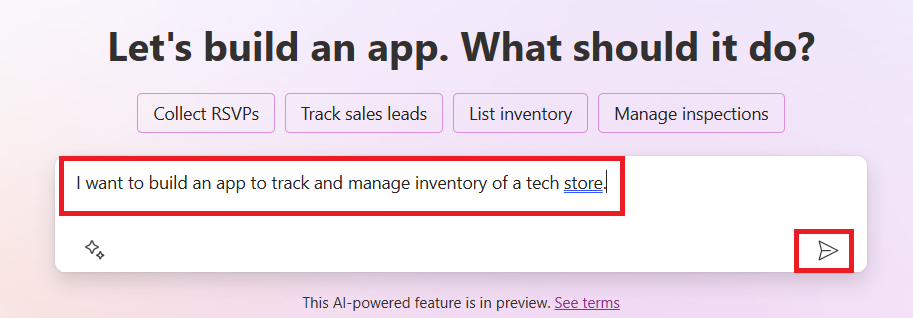
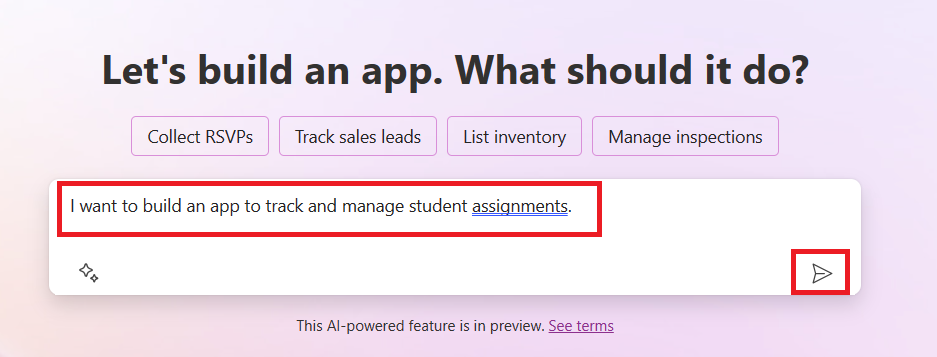
Made suggested updates

Changed region(s): [[0.0307, 0.4811, 0.9507, 0.9906], [0.092, 0.0849, 0.8894, 0.2547], [0.1227, 0.283, 0.8587, 0.4528]]

diff --git a/1-getting-started/lessons/10-building-low-code-ai-applications/README.md b/1-getting-started/lessons/10-building-low-code-ai-applications/README.md
@@ -2,7 +2,9 @@
 
 ## Introduction
 
-Building apps and solutions has become more easier for traditional developers and non-developers through the use of Low Code Development Platforms. Low Code Development Platforms enable you to build apps and solutions with little to no code. This is achieved by providing a visual development environment that enables you to drag and drop components to build apps and solutions. This enables you to build apps and solutions faster and with less resources. In this lesson, we dive deep into how to use Low Code and how to enhance low code development with AI.
+Building apps and solutions has become more easier for traditional developers and non-developers through the use of Low Code Development Platforms. Low Code Development Platforms enable you to build apps and solutions with little to no code. This is achieved by providing a visual development environment that enables you to drag and drop components to build apps and solutions. This enables you to build apps and solutions faster and with less resources. In this lesson, we dive deep into how to use Low Code and how to enhance low code development with AI using Power Platform.
+
+The Power Platform provides organizations with the opportunity to empower their teams to build their own solutions through an intuitive low-code or no-code environment. This environment helps simplify the process of building solutions. With Power Platform, solutions can be built in days or weeks instead of months or years. Power Platform consists of five key products: Power Apps, Power Automate, Power BI, Power Pages and Power Virtual Agents.
 
 This lesson covers:
 - Introduction to Generative AI in Power Platform
@@ -15,118 +17,128 @@ This lesson covers:
 By the end of this lesson, you will be able to:
 
 - Understand how Copilot works in Power Platform
-- Build an App using Copilot in PowerApps
+- Build a Student Assignment Tracker App for Edu4All, our fictitious education startup.
+- Build an Invoice Processing Flow that uses AI to extract information from invoices
 - Apply best practices when using the Create Text with GPT AI Model
+
+The tools and technologies that you will use in this lesson are:
+
+- PowerApps for the Student Assignment Tracker app, which provides a low-code development environment for building apps to track, manage and interact with data.
+- Dataverse for storing the data for the Student Assignment Tracker app where Dataverse will provide a low-code data platform for storing the apps data.
+- Power Automate for the Invoice Processing flow where you will have low-code development environment for building workflows to automate the Invoice Processing process.
+- AI Builder for the Invoice Processing AI Model where you will use prebuilt AI Models to process the Edu4All invoices.
 
 ## Generative AI in Power Platform
 
 Enhancing low-code development and application with generative AI is a key focus area for Power Platform. The goal is to enable everyone to build AI-powered apps, sites, dashboards and automate processes with AI, without requiring any data science expertise. This is achieved by integrating generative AI into the low-code development experience in Power Platform in the form of Copilot and AI Builder.
 
-### What is AI Copilot?
+How does this work? Copilot is an AI assistant that enables you to build Power Platform solutions by describing your requirements in a series of conversational steps using natural language. You can use Copilot driven functionalities as feature in your app screens to enable users to uncover insights through conversational interactions. AI Builder is a low-code AI capability available in Power Platform that enables you to use AI Models to help you to automate processes and predict outcomes. With AI Builder you can bring AI to your apps and flows that connect to your data in Dataverse or in various cloud data sources, such as SharePoint, OneDrive or Azure.
 
-AI Copilot enables you to build Power Platform solutions with underlying data through describing your requirements in a series of conversational steps using natural language. You can use AI Copilot driven functionalities as feature in your app screens to enable users to uncover insights through conversatonal interactions.
+Copilot is available in all of the Power Platform products: Power Apps, Power Automate, Power BI, Power Pages and Power Virtual Agents. AI Builder is available in Power Apps and Power Automate. In this lesson, we will focus on how to use Copilot and AI Builder in Power Apps and Power Automate to build a solution for Edu4All, our fictitious education startup.
 
-### PowerApps Copilot
+### Copilot in PowerApps
 
-The copilot AI assistant feature in PowerApps enables you to describe what kind of app you need and what information you want your app to track, collect, or show. Copilot then generates a responsive Canvas app based on your description. You can then customize the app to meet your needs. The AI Copilot also generates and suggests a Dataverse Table with the fields you need to store the data you want to track and some sample data. You can then customize the table to meet your needs using the AI Copilot assistant feature through conversational steps. This feature is readily available from the PowerApps home screen.
+As part of the Power Platform, PowerApps provides a low-code development environment for building apps to track, manage and interact with data. It is a suite of app development services with a scalable data platform and the ability to connect to cloud services and on-premises data. PowerApps allows you to build apps that run on browsers, tablets, and phones, and can be shared with co-workers. PowerApps eases users into app development with a simple interface, so that every business user or pro developer can build custom apps. The app development experience is also enhanced with Generative AI through Copilot.
 
-## Build Apps and Flows with Generative AI
+The copilot AI assistant feature in PowerApps enables you to describe what kind of app you need and what information you want your app to track, collect, or show. Copilot then generates a responsive Canvas app based on your description. You can then customize the app to meet your needs. The AI Copilot also generates and suggests a Dataverse Table with the fields you need to store the data you want to track and some sample data. We will look at what Dataverse is and how you can use it in PowerApps on this lesson later. You can then customize the table to meet your needs using the AI Copilot assistant feature through conversational steps. This feature is readily available from the PowerApps home screen.
 
-To build an app or a flow in PowerApps or Power Automate you would need to have a clear understanding of the requirements and the data that is required to build the app or flow. Make sure that you have a clear prompt to get the best results. For example, if you want to build an app to track the inventory of a store, you can use the following prompt: ***I want to build an app to track the inventory of a store***. This will help the AI Copilot to understand the requirements and generate the app accordingly.
+### Copilot in Power Automate
+
+As part of the Power Platform, Power Automate lets users create automated workflows between applications and services. It helpes automate repetitive business processes such as communication, data collection, and decision approvals. Its simple interface allows users with every technical competence (from beginners to seasoned developers) to automate work tasks. The workflow development experience is also enhanced with Generative AI through Copilot.
+
+The copilot AI assistant feature in Power Automate enables you to describe what kind of flow you need and what actions you want your flow to perform. Copilot then generates a flow based on your description. You can then customize the flow to meet your needs. The AI Copilot also generates and suggests the actions you need to perform the task you want to automate. We will look at what flows are and how you can use them in Power Automate on this lesson later. You can then customize the actions to meet your needs using the AI Copilot assistant feature through conversational steps. This feature is readily available from the Power Automate home screen.
+
+## Use Copilot to Build a Solution for Edu4All
+
+Edu4All is a fictitious education startup that provides online courses to students. The startup has grown rapidly and is now struggling to keep up with the demand for its courses. The startup has hired you as a Power Platform developer to help them build a low code solution to help them manage their student assignments and invoices. Their solution should be able to help them track and manage student assignments through an app and automate the invoice processing process through a workflow. You have been asked to use Generative AI to develop the solution.
 
 When you are getting started with using Copilot, you can use the [Power Platform Copilot Prompt Library](https://pnp.github.io/powerplatform-prompts/?WT.mc_id=academic-109639-somelezediko) to get started with the prompts. This library contains a list of prompts that you can use to build apps and flows with Copilot. You can also use the prompts in the library to get an idea of how to describe your requirements to Copilot.
 
-### Build and Update an App with Copilot in PowerApps
+### Build a Student Assignment Tracker App for Edu4All
 
-To build an app with Copilot in PowerApps, follow the steps below:
+The educators at Edu4All have been struggling to keep track of student assignments. They have been using a spreadsheet to track the assignments but this has become difficult to manage as the number of students has increased. They have asked you to build an app that will help them track and manage student assignments. The app should enable them to add new assignments, view assignments, update assignments and delete assignments. The app should also enable the educators and students to view the assignments that have been graded and those that have not been graded. 
+
+You will build the app using Copilot in PowerApps following the steps below:
 
 1. Navigate to the [PowerApps](https://make.powerapps.com) home screen.
 
-2. Use the text area on the home screen to describe the app you want to build. For example, ***I want to build an app to track and manage inventory of a tech store***. Click on the **Send** button to send the prompt to the AI Copilot.
+2. Use the text area on the home screen to describe the app you want to build. For example, ***I want to build an app to track and manage student assignments***. Click on the **Send** button to send the prompt to the AI Copilot.
 
     ![](images/copilot-chat-prompt-powerapps.png)
 
 3. The AI Copilot will suggest a Dataverse Table with the fields you need to store the data you want to track and some sample data. You can then customize the table to meet your needs using the AI Copilot assistant feature through conversational steps.
 
-    ![](images/copilot-table.png)
+> **Important**: Dataverse is the underlying data platform for Power Platform. It is a low-code data platform for storing the apps data. It is a fully managed service that securely stores data in the Microsoft Cloud and is provisioned within your Power Platform environment. It comes with built-in data governance capabilities, such as data classification, data lineage, fine-grained access control, and more. You can learn more about Dataverse [here](https://docs.microsoft.com/en-us/powerapps/maker/data-platform/data-platform-intro?WT.mc_id=academic-109639-somelezediko).
 
-4. Once you are done with the table, click on the **Create app** button to create the app.
+    ![](images/copilot-dataverse-table-powerapps.png)
 
-5. The AI Copilot will generate a responsive Canvas app based on your description. You can then customize the app to meet your needs (optional). You can also use the AI Copilot to add new screens to the app. For example, you can use the following prompt to add a new screen to the app: ***I want to add an email screen to send updates***. Click on the **Send** button to send the prompt to the AI Copilot.
+4. Educators want to send emails to the students who have submitted their assignments to keep them updated on the progress of their assignments. You can use Copilot to add a new field to the table to store the student email. For example, you can use the following prompt to add a new field to the table: ***I want to add a column to store student email***. Click on the **Send** button to send the prompt to the AI Copilot.
 
-    ![](images/copilot-app.png)
+    ![](images/copilot-new-column.png)
 
-6. Once you are done with the app, click on the **Save** button to save the app.
+5. The AI Copilot will generate a new field and you can then customize the field to meet your needs.
 
-7. You can then publish the app to make it available to the users.
+6. Once you are done with the table, click on the **Create app** button to create the app.
 
-### Author and Update a Dataverse Table with Copilot in PowerApps
+7. The AI Copilot will generate a responsive Canvas app based on your description. You can then customize the app to meet your needs.
 
-To author and update a Dataverse Table with Copilot in PowerApps, follow the steps below:
+8. For educators to send emails to students, you can use Copilot to add a new screen to the app. For example, you can use the following prompt to add a new screen to the app: ***I want to add a screen to send emails to students***. Click on the **Send** button to send the prompt to the AI Copilot.
+
+    ![](images/copilot-new-screen.png)
+
+9. The AI Copilot will generate a new screen and you can then customize the screen to meet your needs.
+
+10. Once you are done with the app, click on the **Save** button to save the app.
+
+11. To share the app with the educators, click on the **Share** button and then click on the **Share** button again. You can then share the app with the educators by entering their email addresses.
+
+> **Your homework**: The app you just built is a good start but can be improved. With the email feature, educators can only send emails to students manually by having to type their emails. Can you use Copilot to build an automation that will enable educators to send emails to students automatically when they submit their assignments? Your hint is with the right prompt you can use Copilot in Power Automate to build this.
+
+### Build an Invoices Information Table for Edu4All
+
+The Edu4All finance team has been struggling to keep track of invoices. They have been using a spreadsheet to track the invoices but this has become difficult to manage as the number of invoices has increased. They have asked you to build a table that will help them store, track and manage the information of the invoices they received. The table should be used to build an automation that will extract all the invoice information and store it in the table. The table should also enable the finance team to view the invoices that have been paid and those that have not been paid.
+
+The Power Platform has an underlying data platform called Dataverse that enables you to store the data for your apps and solutions. Dataverse provides a low-code data platform for storing the apps data. It is a fully managed service that securely stores data in the Microsoft Cloud and is provisioned within your Power Platform environment. It comes with built-in data governance capabilities, such as data classification, data lineage, fine-grained access control, and more. You can learn more about Dataverse [here](https://docs.microsoft.com/en-us/powerapps/maker/data-platform/data-platform-intro?WT.mc_id=academic-109639-somelezediko).
+
+Why should you use Dataverse for Edu4All? The standard and custom tables within Dataverse provide a secure and cloud-based storage option for your data. Tables let you store different types of data, similar to how you might use multiple worksheets in a single Excel workbook. You can use tables to store data that is specific to your organization or business need. Some of the benefits Edu4All will get from using Dataverse include but are not limited to: 
+
+- **Easy to manage**: Both the metadata and data are stored in the cloud, so you don't have to worry about the details of how they are stored or managed. You can focus on building your apps and solutions.
+
+- **Secure**: Dataverse provides a secure and cloud-based storage option for your data. You can control who has access to the data in your tables and how they can access it using role based security.
+
+- **Rich metadata**: Data types and relationships are used directly within PowerApps
+
+- **Logic and validation**: You can use business rules, calculated fields, and validation rules to enforce business logic and maintain data accuracy.
+
+Now that you know what Dataverse is and why you should use it, let's look at how you can use Copilot to create a table in Dataverse to meet the requirements of the Edu4All finance team.
+
+>**Note** : You will use this table in the next section to build an automation that will extract all the invoice information and store it in the table.
+
+To create a table in Dataverse using Copilot, follow the steps below:
 
 1. Navigate to the [PowerApps](https://make.powerapps.com) home screen.
 
 2. On the left navigation bar, select on **Tables** and then click on **Describe the new Table**.
 
-![](images/copilot-new-table.png)
+    ![](images/describe-new-table.png)
 
-3. On the right side of the screen, use the text area to describe the table you want to create. For example, ***I want to create a table to track and manage inventory for a tech store***. Click on the **Send** button to send the prompt to the AI Copilot.
+3. On the **Describe the new Table** screen, use the text area to describe the table you want to create. For example, ***I want to create a table to store invoice information***. Click on the **Send** button to send the prompt to the AI Copilot.
 
-    ![](images/copilot-new-table-prompt.png)
+    ![](images/copilot-chat-prompt-dataverse.png)
 
 4. The AI Copilot will suggest a Dataverse Table with the fields you need to store the data you want to track and some sample data. You can then customize the table to meet your needs using the AI Copilot assistant feature through conversational steps.
 
-5. To use AI Copilot to add a new field to the table, use the following prompt: ***I want to add a field to store supplier email.***. Click on the **Send** button to send the prompt to the AI Copilot.
+    ![](images/copilot-dataverse-table.png)
 
-    ![](images/copilot-new-column.png)
+5. The Edu4All finance team want to send an email to the supplier to update them with the current status of their invoice. You can use Copilot to add a new field to the table to store the supplier email. For example, you can use the following prompt to add a new field to the table: ***I want to add a column to store supplier email***. Click on the **Send** button to send the prompt to the AI Copilot.
 
 6. The AI Copilot will generate a new field and you can then customize the field to meet your needs.
 
 7. Once you are done with the table, click on the **Create** button to create the table.
 
-### Build and Update a Flow with Copilot in Power Automate
-
-To build a flow with Copilot in Power Automate, follow the steps below:
-
-1. Navigate to the [Power Automate](https://make.powerautomate.com) home screen.
-
-2. Use the text area on the home screen to describe the flow you want to build. For example, ***I want to receive updates when stock quantity drops to a certain number in Dataverse**. Click on the **Send** button to send the prompt to the AI Copilot.
-
-    ![](images/copilot-chat-prompt-powerautomate.png)
-
-3. The AI Copilot will suggest a flow with the actions you need to perform the task you want to automate. You click on the **Next** button to go through the steps.
-
-    ![](images/suggested-flow.png)
-
-4. Power Automate will prompt you to set up the connections required for the flow. Once you are done with the connections, click on the **Create Flow** button to create the flow.
-
-5. Update the **When a row is added, modified or deleted** trigger to use the table you created in the previous section.
-
-6. Update the **Get a row by ID** action to use the table you created in the previous section.
-
-7. Update the condition to use the dynamic content from the **Get a row by ID** action. Set the fields as shown below:
-
-    **Left**: `Quantity`,
-    **Condition**: `is less than`,
-    **Right**: `10`
-
-8. Update the **Send an email** action to use the dynamic content from the trigger. Set the fields as shown below:
-
-    **To**: `Email`,
-    **Subject**: `Quantity of Inventory Item Dropping`,
-    **Body**: `Hi team, the number of items in stock for the item: {Name} is dropping. Please check the inventory and update the stock.`
-
-9. Use copilot to add a new action to the flow. For example, you can use the following prompt to add a new action to the flow: ***I want to create a task in planner when the condition is true and send an email***. Click on the **Send** button to send the prompt to the AI Copilot.
-
-    ![](images/copilot-powerautomate.png)
-
-10. The AI Copilot will generate a new action and you can then customize the action to meet your needs.
-
-11. Once you are done with the flow, click on the **Save** button to save the flow.
-
 ## AI Models in Power Platform with AI Builder
 
-AI Builder is a low-code AI capability available in Power Platform that enables you to use AI Models to help you in automating processes and predicting outcomes. With AI Builder you can bring AI to your apps and flows that connect to your data in Dataverse or in various cloud data sources, such as SharePoint, OneDrive or Azure. 
+AI Builder is a low-code AI capability available in Power Platform that enables you to use AI Models to help you to automate processes and predict outcomes. With AI Builder you can bring AI to your apps and flows that connect to your data in Dataverse or in various cloud data sources, such as SharePoint, OneDrive or Azure. 
 
 ### Prebuilt AI Models vs Custom AI Models
 
@@ -143,17 +155,64 @@ Some of the Prebuilt AI Models available in Power Platform include:
 - **Form Processing**: This model extracts information from forms.
 - **Invoice Processing**: This model extracts information from invoices.
 
-With Custom AI Models you can bring your own model into AI Builder so that it can function like any AI Builder custom model, allowing you to train the model using your own data. You can use these models to automate processes and predict outcomes in both PowerApps and Power Automate. When using your own model there limitations that apply. Read more on these [limitations](https://learn.microsoft.com/en-us/ai-builder/byo-model#limitations).
+With Custom AI Models you can bring your own model into AI Builder so that it can function like any AI Builder custom model, allowing you to train the model using your own data. You can use these models to automate processes and predict outcomes in both PowerApps and Power Automate. When using your own model there are limitations that apply. Read more on these [limitations](https://learn.microsoft.com/en-us/ai-builder/byo-model#limitations).
 
 ![](images/ai-builder-models.png)
 
+### Build an Invoice Processing Flow for Edu4All
+
+The Edu4All finance team has been struggling to process invoices. They have been using a spreadsheet to track the invoices but this has become difficult to manage as the number of invoices has increased. They have asked you to build a workflow that will help them process invoices using AI. The workflow should enable them to extract information from invoices and store the information in a Dataverse table. The workflow should also enable them to send an email to the finance team with the extracted information.
+
+Now that you know what AI Builder is and why you should use it, let's look at how you can use the Invoice Processing AI Model in AI Builder, that we covered earlier on, to build a workflow that will help the Edu4All finance team process invoices.
+
+To build a workflow that will help the Edu4All finance team process invoices using the Invoice Processing AI Model in AI Builder, follow the steps below:
+
+1. Navigate to the [Power Automate](https://make.powerautomate.com) home screen.
+
+2. Use the text area on the home screen to describe the workflow you want to build. For example, ***Process an invoice when it arrives in my mailbox***. Click on the **Send** button to send the prompt to the AI Copilot.
+
+    ![](images/copilot-chat-prompt-powerautomate.png)
+
+3. The AI Copilot will suggest the actions you need to perform the task you want to automate. You can click on the **Next** button to go through the next steps.
+
+4. On the next step, Power Automate will prompt you to set up the connections required for the flow. Once you are done, click on the **Create flow** button to create the flow.
+
+5. The AI Copilot will generate a flow and you can then customize the flow to meet your needs.
+
+6. Update the trigger of the flow and set the **Folder** to the folder where the invoices will be stored. For example, you can set the folder to **Inbox**. Click on **Show advanced options** and set the **Only with Attachments** to **Yes**. This will ensure that the flow only runs when an email with an attachment is received in the folder.
+
+7. Remove the following actions from the flow: **HTML to text**, **Compose**, **Compose 2**, **Compose 3** and **Compose 4** because you will not be using them.
+
+8. Remove the **Condition** action from the flow because you will not be using it. It should look like the following screenshot:
+
+    ![](images/powerautomate-remove-actions.png)
+
+9. Click on the **Add an action** button and search for **Dataverse**. Select the **Add a new row** action.
+
+10. On the **Extract Information from invoices** action, update the **Invoice File** to point to the **Attachment Content** from the email. This will ensure that the flow extracts information from the invoice attachment.
+
+11. Select the **Table** you created earlier on. For example, you can select the **Invoice Information** table. Choose the dynamic content from the previous action to populate the following fields: 
+
+    * ID
+    * Amount
+    * Date
+    * Name
+    * Status - Set the **Status** to **Pending**.
+    * Supplier Email - Use the **From** dynamic content from the **When a new email arrives** trigger.
+
+    ![](images/powerautomate-add-row.png)
+
+12. Once you are done with the flow, click on the **Save** button to save the flow. You can then test the flow by sending an email with an invoice to the folder you specified in the trigger.
+
+> **Your homework**: The flow you just built is a good start, now you need to think of how you can build an automation that will enable the Edu4All finance team to send an email to the supplier to update them with the current status of their invoice. Your hint: the flow must run when the status of the invoice changes.
+
 ### Use a Text Generation AI Model in Power Automate
 
-The Create Text with GPT AI Model in AI Builder enables you to generate text based on a prompt and is powered by the Microsoft Azure OpenAI Service. With this capability, you can incorporate GPT (Generative Pre-Trained Tranformer) technology into your apps and flows to build a variety of automations and insightful applications. 
+The Create Text with GPT AI Model in AI Builder enables you to generate text based on a prompt and is powered by the Microsoft Azure OpenAI Service. With this capability, you can incorporate GPT (Generative Pre-Trained Transformer) technology into your apps and flows to build a variety of automations and insightful applications. 
 
 GPT models undergo extensive training on vast amounts of data, enabling them to produce text that closely resembles human language when provided with a prompt. When integrated with workflow automation, AI models like GPT can be harnessed to streamline and automate a wide range of tasks.
 
-For example, you can build flows to automatically generate text for a variety of use cases, such as: drafts of emails, product descriptions, and more. You can also use the model to generate text for a variety of apps, such as chatbots and customer service apps that enable customer service agents to respond effectively and effectiently to customer inquiries.
+For example, you can build flows to automatically generate text for a variety of use cases, such as: drafts of emails, product descriptions, and more. You can also use the model to generate text for a variety of apps, such as chatbots and customer service apps that enable customer service agents to respond effectively and efficiently to customer inquiries.
 
 ![](images/create-prompt-gpt.png)
 
